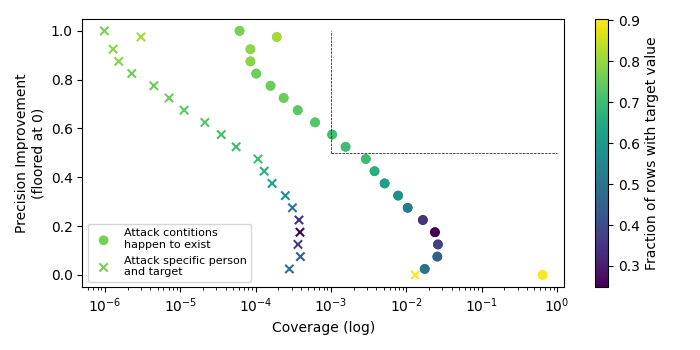
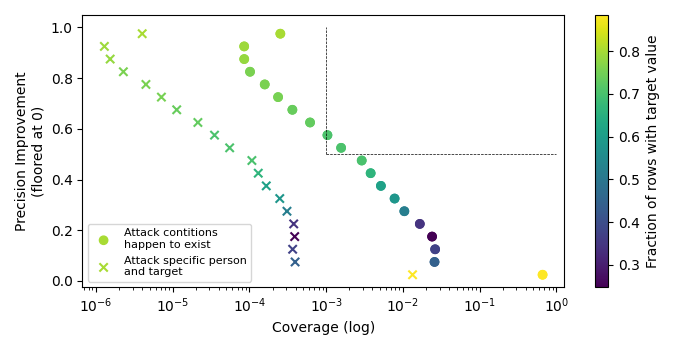
plots

diff --git a/suppress_threshold_attack.py b/suppress_threshold_attack.py
@@ -163,65 +163,25 @@ def do_plots():
     count_pi_fl_1 = X_test_all[X_test_all['pi_fl'] == 1].shape[0]
     print(f"Count of rows where pi_fl == 1: {count_pi_fl_1}")
 
-    # Define the number of bins
-    num_bins = 20
-
-    # Create a temporary DataFrame that excludes rows where pi_fl == 0 or pi_fl == 1
-    #df_temp = X_test_all[(X_test_all['pi_fl'] > 0) & (X_test_all['pi_fl'] < 1)].copy()
+    # Make a scatterplot of pi_fl vs coverage
+    num_bins = 40
     df_temp = X_test_all.copy()
-
-    # Create bins of equal width
     df_temp['bin'] = pd.cut(df_temp['pi_fl'], bins=num_bins)
 
-    # Compute the count, midpoint, and fraction for each bin
+
     df_bin = df_temp.groupby('bin', observed=True).size().reset_index(name='count')
     df_bin['pi_fl_mid'] = df_bin['bin'].apply(lambda x: (x.right + x.left) / 2)
-
     for column in df_temp.columns:
         # If the dtype is numeric, compute the mean for each bin
         if pd.api.types.is_numeric_dtype(df_temp[column]):
             df_bin[f'{column}_avg'] = df_temp.groupby('bin', observed=True)[column].mean().values
 
-    #df_bin['capt_avg'] = df_temp.groupby('bin', observed=True)['capt'].mean().values
-    #df_bin['cap_avg'] = df_temp.groupby('bin', observed=True)['cap'].mean().values
-    #df_bin['frac_tar_avg'] = df_temp.groupby('bin', observed=True)['frac_tar'].mean().values
     df_bin['guess_pos'] = df_temp[df_temp['prob_tp_model'] > 0.5].groupby('bin', observed=True)['prob_tp_model'].count().values
     df_bin['model_tp'] = df_temp[df_temp['model_pred'] == 'tp'].groupby('bin', observed=True)['model_pred'].count().values
     df_bin['model_fp'] = df_temp[df_temp['model_pred'] == 'fp'].groupby('bin', observed=True)['model_pred'].count().values
     df_bin['naive_tp'] = df_temp[df_temp['naive_pred'] == 'tp'].groupby('bin', observed=True)['naive_pred'].count().values
     df_bin['naive_fp'] = df_temp[df_temp['naive_pred'] == 'fp'].groupby('bin', observed=True)['naive_pred'].count().values
     df_bin['frac_perfect'] = df_bin['guess_pos'] / X_test_all.shape[0]
-
-    # Add bins for pi_fl == 0 and pi_fl == 1
-#    for value in [0, 1]:
-#        count = X_test_all[X_test_all['pi_fl'] == value].shape[0]
-#        #capt_avg = X_test_all[X_test_all['pi_fl'] == value]['capt'].mean()
-#        #cap_avg = X_test_all[X_test_all['pi_fl'] == value]['cap'].mean()
-#        #frac_tar_avg = X_test_all[X_test_all['pi_fl'] == value]['frac_tar'].mean()
-#        pos_count = X_test_all[(X_test_all['pi_fl'] == value) & (X_test_all['prob_tp_model'] > 0.5)].shape[0]
-#        model_tp = X_test_all[(X_test_all['pi_fl'] == value) & (X_test_all['model_pred'] == 'tp')].shape[0]
-#        model_fp = X_test_all[(X_test_all['pi_fl'] == value) & (X_test_all['model_pred'] == 'fp')].shape[0]
-#        naive_tp = X_test_all[(X_test_all['pi_fl'] == value) & (X_test_all['naive_pred'] == 'tp')].shape[0]
-#        naive_fp = X_test_all[(X_test_all['pi_fl'] == value) & (X_test_all['naive_pred'] == 'fp')].shape[0]
-#        new_row = {'bin': [pd.Interval(value, value, closed='both')],
-#                    'count': [count],
-#                    'pi_fl_mid': [value],
-#                    'frac_perfect': [pos_count / X_test_all.shape[0]],
-#                    #'capt_avg': [capt_avg],
-#                    #'cap_avg': [cap_avg],
-#                    'model_tp': [model_tp],
-#                    'model_fp': [model_fp],
-#                    'naive_tp': [naive_tp],
-#                    'naive_fp': [naive_fp],
-#                    #'frac_tar_avg': [frac_tar_avg],
-#                    }
-#        for column in df_temp.columns:
-#            # If the dtype is numeric, compute the mean for each bin
-#            if pd.api.types.is_numeric_dtype(df_temp[column]):
-#                new_row[f'{column}_avg'] = [X_test_all[X_test_all['pi_fl'] == value][column].mean()]
-#
-#        new_df = pd.DataFrame(new_row)
-#        df_bin = pd.concat([df_bin, new_df], ignore_index=True)
 
     df_bin = df_bin.sort_values(by='pi_fl_mid', ascending=False).reset_index(drop=True)
     df_bin['frac_capt'] = df_bin['frac_perfect'] * df_bin['capt_avg']
